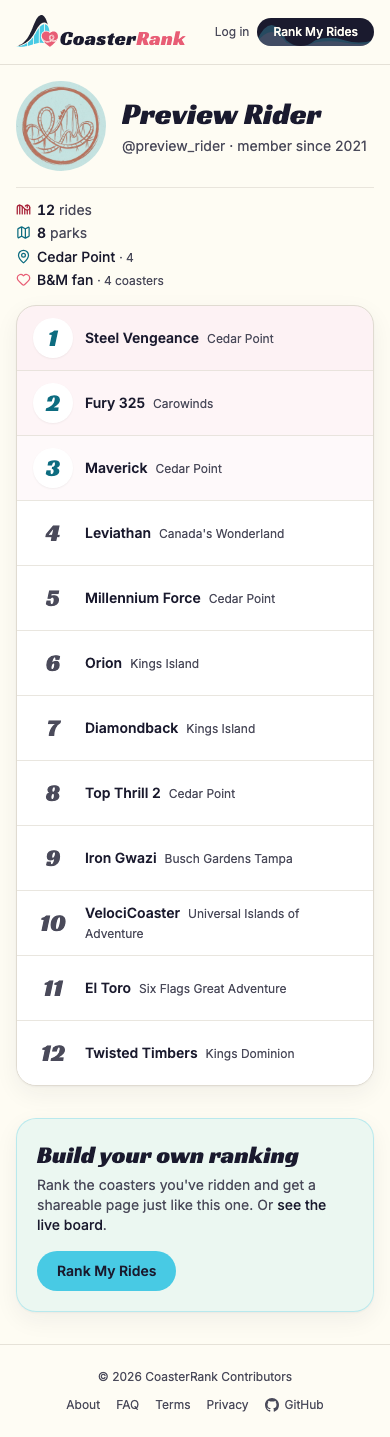
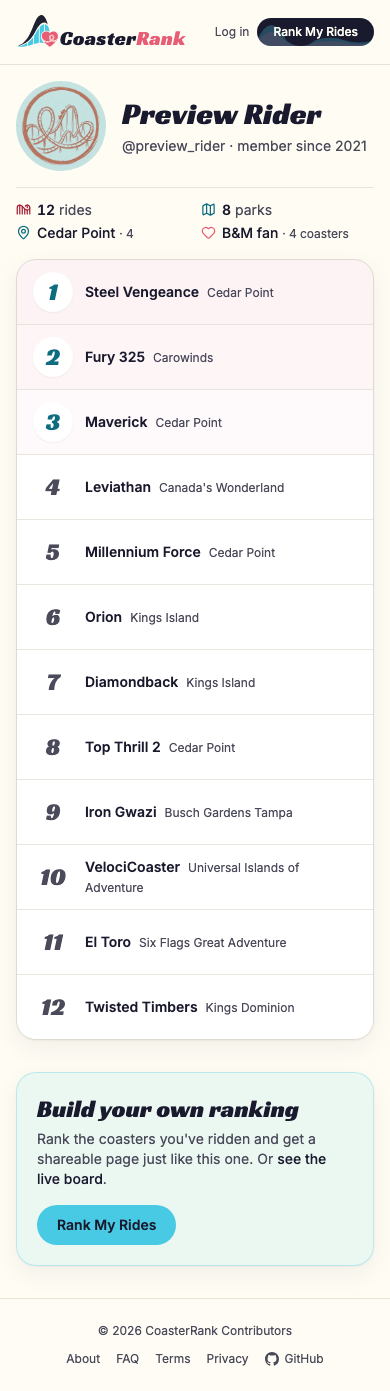
feat: rider share stats go 2x2 on mobile

diff --git a/app/src/pages/RiderPage.tsx b/app/src/pages/RiderPage.tsx
@@ -120,9 +120,10 @@ export default function RiderPage() {
         <meta name="twitter:image" content={ogImage} />
       </Helmet>
 
-      {/* Hero — bare identity + a four-line stats stack (no card chrome, no
+      {/* Hero — bare identity + four stat lines (no card chrome, no
           eyebrow): the name leads, Lucide glyphs in brand tokens lead each
-          stat line. Stacks below the identity on mobile. */}
+          stat. Mobile condenses to a 2x2 grid so the top 10 still fits one
+          screen; sm+ tucks the lines into the right-hand gap. */}
       <div className="flex flex-col gap-4 sm:flex-row sm:items-center">
         <div className="flex min-w-0 flex-1 items-center gap-4 sm:gap-5">
           <Avatar
@@ -141,7 +142,7 @@ export default function RiderPage() {
             </p>
           </div>
         </div>
-        <div className="min-w-0 space-y-1 border-t border-line/70 pt-3 text-sm leading-snug sm:w-60 sm:shrink-0 sm:border-l sm:border-t-0 sm:pl-5 sm:pt-0">
+        <div className="grid min-w-0 grid-cols-2 gap-x-3 gap-y-1 border-t border-line/70 pt-3 text-sm leading-snug sm:flex sm:w-60 sm:shrink-0 sm:flex-col sm:border-l sm:border-t-0 sm:pl-5 sm:pt-0">
           <p className="flex min-w-0 items-center gap-1.5" data-testid="rider-stats-rides">
             <RollerCoaster size={15} className="shrink-0 text-coral-text" aria-hidden="true" />
             <span className="truncate">

diff --git a/docs/previews/rider-share-compact/README.md b/docs/previews/rider-share-compact/README.md
@@ -8,7 +8,7 @@ the Lucide-icon revision).
 | File                     | Shows                                                                                                                                                                                                                                                                     |
 | ------------------------ | ------------------------------------------------------------------------------------------------------------------------------------------------------------------------------------------------------------------------------------------------------------------------- |
 | `rider-page-desktop.png` | Full share page, desktop: bare hero (no card, no eyebrow, 90px avatar) + four-line stats stack with Lucide glyphs in brand tokens (coral coaster, accent map/pin, coral heart — "B&M fan"), 12-row list, accent-tinted two-column CTA with the Rank My Rides button right |
-| `rider-page-mobile.png`  | Same page, mobile 390px: stats stack below the identity under a hairline rule, CTA stacks with the button below the copy                                                                                                                                                  |
+| `rider-page-mobile.png`  | Same page, mobile 390px: stats condense to a 2x2 grid under a hairline rule, CTA stacks with the button below the copy                                                                                                                                                    |
 
 ## How the state was faked
 
